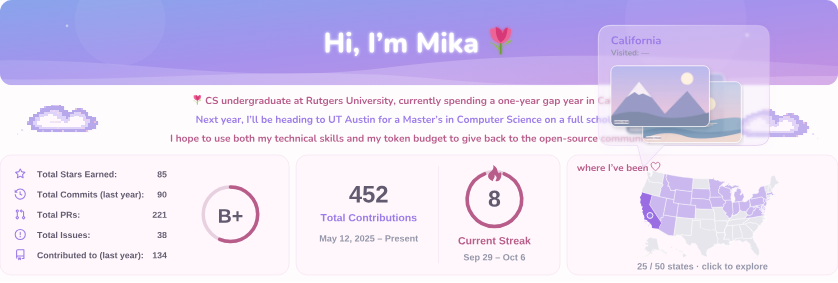
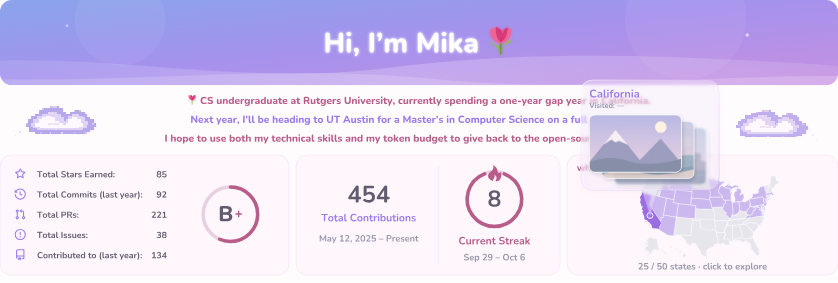
Record deployed bubble animation verification

diff --git a/docs/VALIDATION.md b/docs/VALIDATION.md
@@ -21,3 +21,5 @@ Screenshots: [P1 fixture](screenshots/p1-fixture.png), [P2 fixture](screenshots/
 The public checks use an unauthenticated Chromium session. Safari and Firefox have not been separately exercised.
 
 [GitHub Actions run 37471457741](https://github.com/mikamikasuki/mikamika/actions/runs/37471457741) passed the complete verification suite and deployed build `57dbd23`.
+
+Public checks passed for build `57dbd23`: GitHub light/dark/reduced-motion image sources, live SVG dimensions and MIME type, 25 states, sample previews, fresh statistics and App idle behavior. Actual GitHub image captures confirm the visible, retracted and next-state stages, with mean changed channel values of 16.98, 16.87 and 20.94/255 in the bubble region. [P1 production](screenshots/p1-production.png) and [P2 production](screenshots/p2-production.png) show the Camo-served README.
